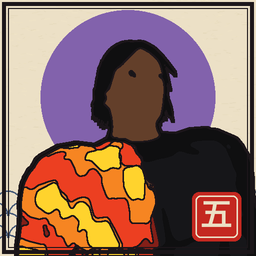
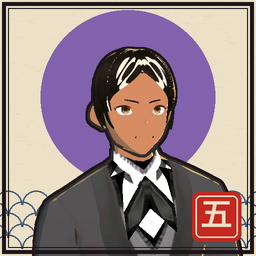
v0.12.1 : portraits des modèles VRoid sans aplats (visages anime), bannière des légendaires à jour
Claude-Session: https://claude.ai/code/session_01Hq9zwcPDNKyq5Yugd5QufW

diff --git a/tools/ukiyoe_portraits.py b/tools/ukiyoe_portraits.py
@@ -1,6 +1,7 @@
 """Transforme les photos de buste (tools/portraits.gd) en icônes façon estampe ukiyo-e.
 
-Usage : python tools/ukiyoe_portraits.py <dossier_des_photos> [taille]
+Usage : python tools/ukiyoe_portraits.py <dossier_des_photos> [taille] [--soft]
+--soft : modèles VRoid (visages anime) : rendu gardé tel quel, seul le contour extérieur est encré.
 Écrit assets/portraits/<id>.png : aplats de couleurs (bois gravé), contour à l'encre, fond de papier
 washi, disque de soleil à la couleur de la constellation, sceau rouge (hanko) avec la rareté.
 """
@@ -9,7 +10,9 @@ from PIL import Image, ImageChops, ImageDraw, ImageFilter, ImageFont, ImageOps
 
 ROOT = os.path.dirname(os.path.dirname(os.path.abspath(__file__)))
 OUT = os.path.join(ROOT, "assets", "portraits")
-SIZE = int(sys.argv[2]) if len(sys.argv) > 2 else 256
+ARGS = [a for a in sys.argv[1:] if not a.startswith("--")]
+SOFT = "--soft" in sys.argv
+SIZE = int(ARGS[1]) if len(ARGS) > 1 else 256
 # palette d'estampe (mêmes teintes que UiKit.CONST_COLORS) : bleu de Prusse, vermillon, glycine ; papier washi
 SUN = {"orion": (43, 79, 140), "grande_ourse": (196, 62, 40), "sirius": (130, 98, 172), "neutre": (40, 36, 44)}
 PAPER = (236, 224, 198)
@@ -68,8 +71,12 @@ def portrait(src, cid, constellation, rarity):
     big = 512
     rgba = Image.open(src).convert("RGBA").resize((big, big), Image.LANCZOS)
     alpha = rgba.split()[3].point(lambda v: 255 if v > 100 else 0)
-    flat = woodblock(rgba)
-    lines = ink_lines(flat, alpha)
+    if SOFT:  # visage anime : les aplats le déformeraient
+        flat = rgba.convert("RGB").filter(ImageFilter.MedianFilter(3))
+        lines = ImageChops.subtract(alpha.filter(ImageFilter.MaxFilter(7)), alpha.filter(ImageFilter.MinFilter(3)))
+    else:
+        flat = woodblock(rgba)
+        lines = ink_lines(flat, alpha)
     canvas = washi(big, hash(cid) & 0xFFFF)
     d = ImageDraw.Draw(canvas)
     sun = SUN.get(constellation, SUN["neutre"])
@@ -96,7 +103,7 @@ def portrait(src, cid, constellation, rarity):
 
 
 def main():
-    src_dir = sys.argv[1]
+    src_dir = ARGS[0]
     os.makedirs(OUT, exist_ok=True)
     info = roster()
     for f in sorted(os.listdir(src_dir)):
